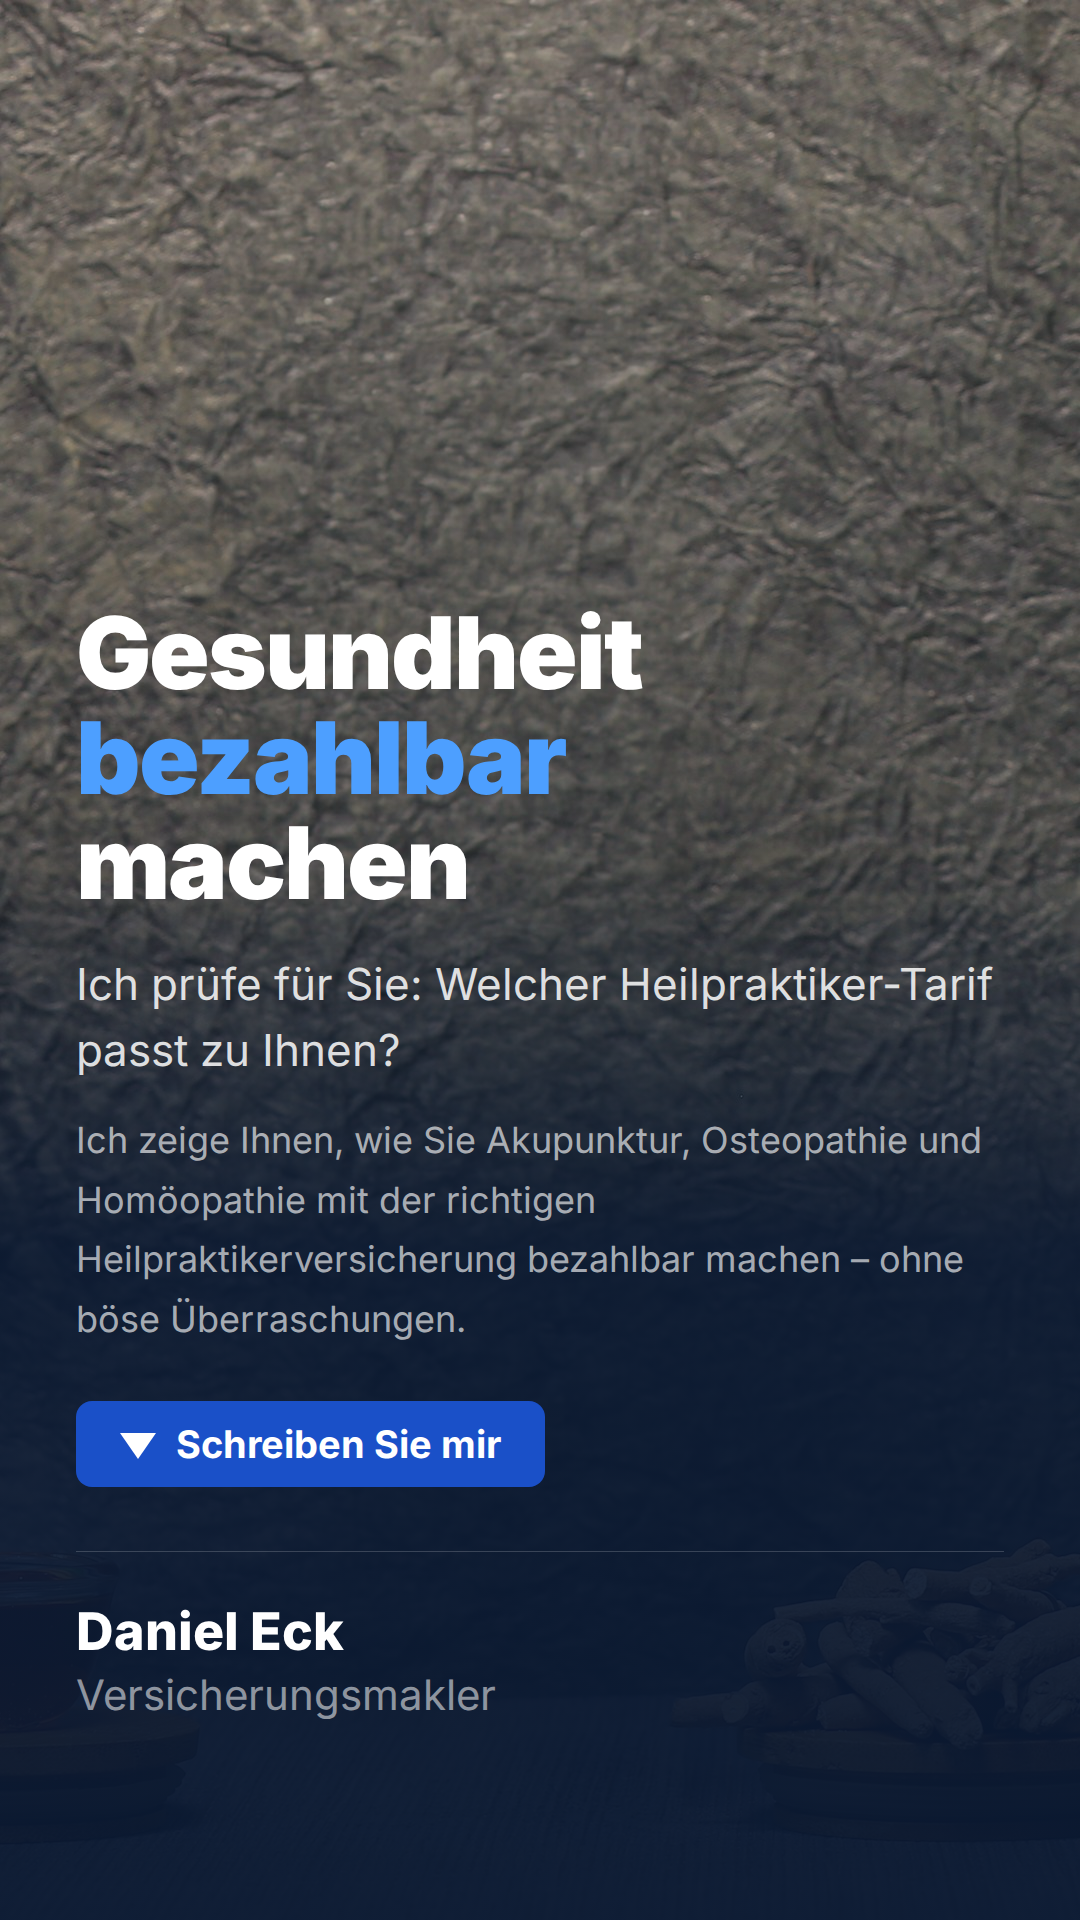
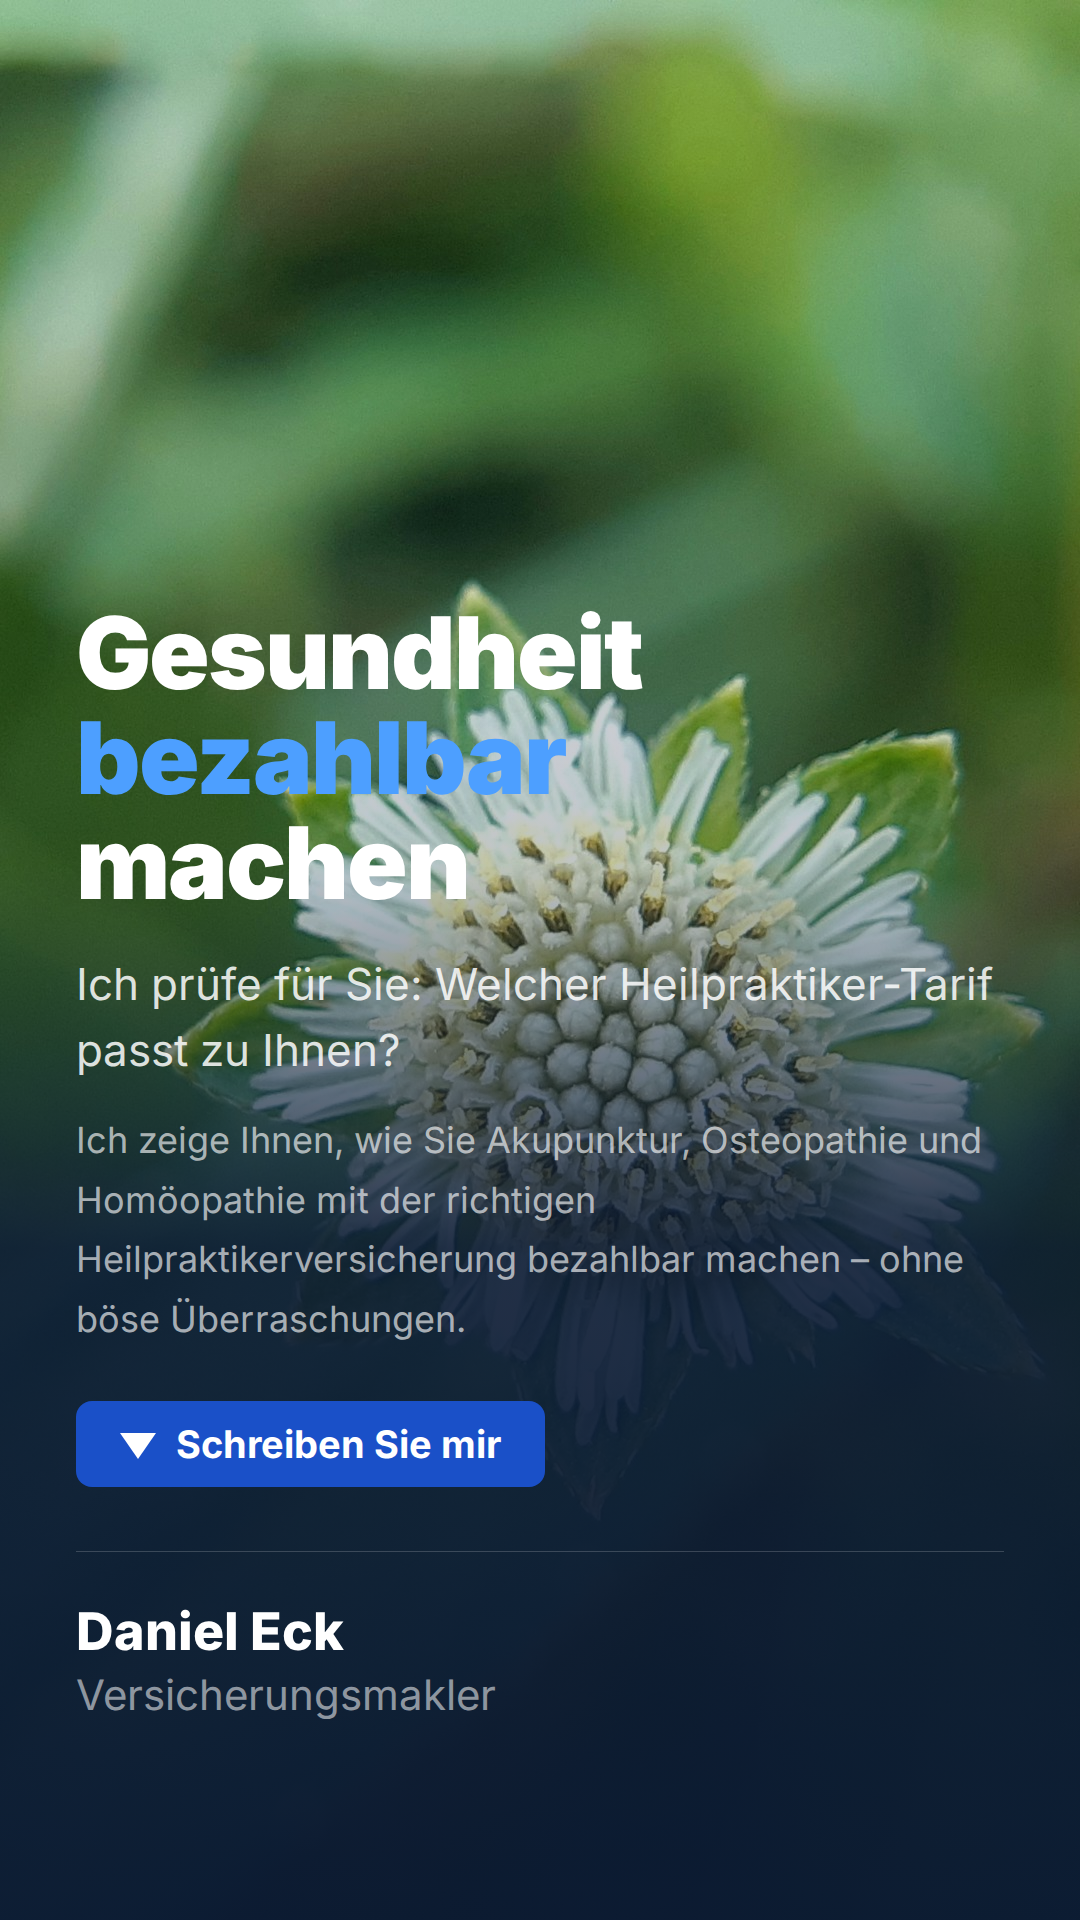
Entwurf geaendert: Heilpraktikerversicherung: Naturheilkunde ohne finanzielle Sorgen

diff --git a/blog/posts/2026-05-27-heilpraktikerversicherung-naturheilkunde-versicherung.html b/blog/posts/2026-05-27-heilpraktikerversicherung-naturheilkunde-versicherung.html
@@ -9,7 +9,7 @@
   <meta property="og:description" content="Heilpraktikerversicherung: Naturheilkunde ohne finanzielle Sorgen – Tipps von Versicherungsmakler Daniel Eck aus Schmalkalden." />
   <meta property="og:type" content="article" />
   <meta property="og:url" content="https://kneipenterroristecky-cmd.github.io/Webseite_Eckversicherung/blog/posts/2026-05-27-heilpraktikerversicherung-naturheilkunde-versicherung.html" />
-  <meta property="og:image" content="https://images.unsplash.com/photo-1778488028552-be65c47f8d1a?w=1200&h=630&fit=crop&auto=format" />
+  <meta property="og:image" content="https://images.unsplash.com/photo-1705083649602-03c5fbae2e89?w=1200&h=630&fit=crop&auto=format" />
   <meta property="og:image:width" content="1200" />
   <meta property="og:image:height" content="630" />
   <meta property="og:site_name" content="Daniel Eck – Versicherungsmakler" />

diff --git a/social/latest-ig-heiko.html b/social/latest-ig-heiko.html
@@ -23,7 +23,7 @@
 </head>
 <body>
 <div class="wrap">
-  <img class="bg-img" src="https://images.unsplash.com/photo-1778488028552-be65c47f8d1a?w=1080&h=1920&fit=crop&auto=format" />
+  <img class="bg-img" src="https://images.unsplash.com/photo-1705083649602-03c5fbae2e89?w=1080&h=1920&fit=crop&auto=format" />
   <div class="overlay"></div>
   <div class="content">
     <h1>Gesundheit<br><span>bezahlbar</span><br>machen</h1>

diff --git a/social/latest-ig.html b/social/latest-ig.html
@@ -23,7 +23,7 @@
 </head>
 <body>
 <div class="wrap">
-  <img class="bg-img" src="https://images.unsplash.com/photo-1778488028552-be65c47f8d1a?w=1080&h=1920&fit=crop&auto=format" />
+  <img class="bg-img" src="https://images.unsplash.com/photo-1705083649602-03c5fbae2e89?w=1080&h=1920&fit=crop&auto=format" />
   <div class="overlay"></div>
   <div class="content">
     <h1>Gesundheit<br><span>bezahlbar</span><br>machen</h1>
